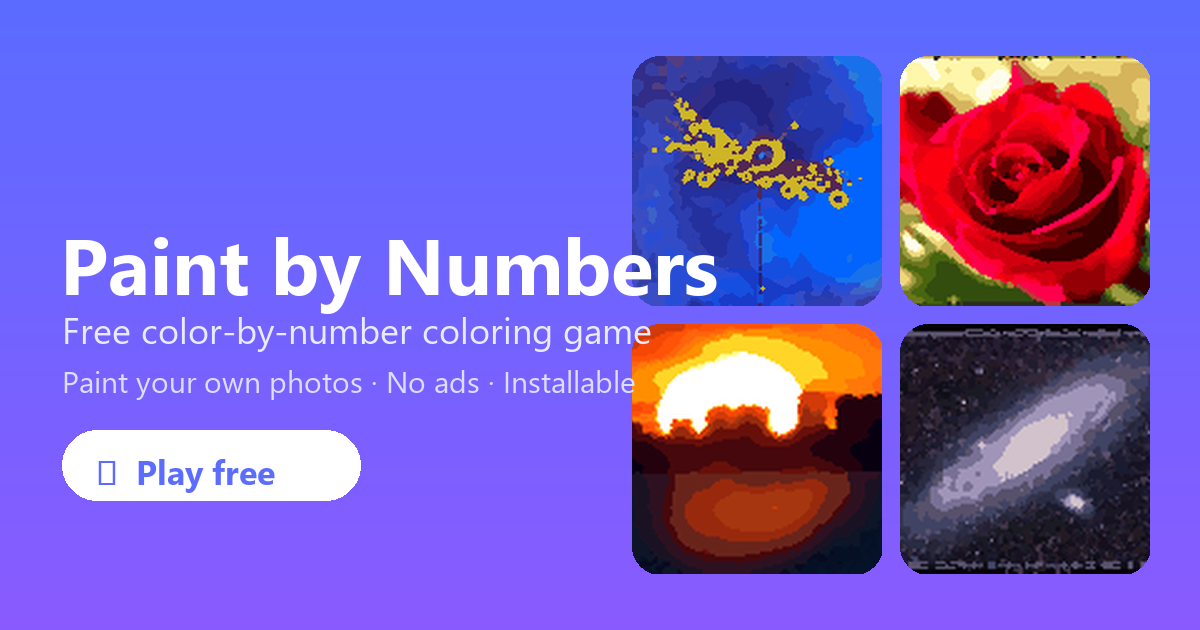
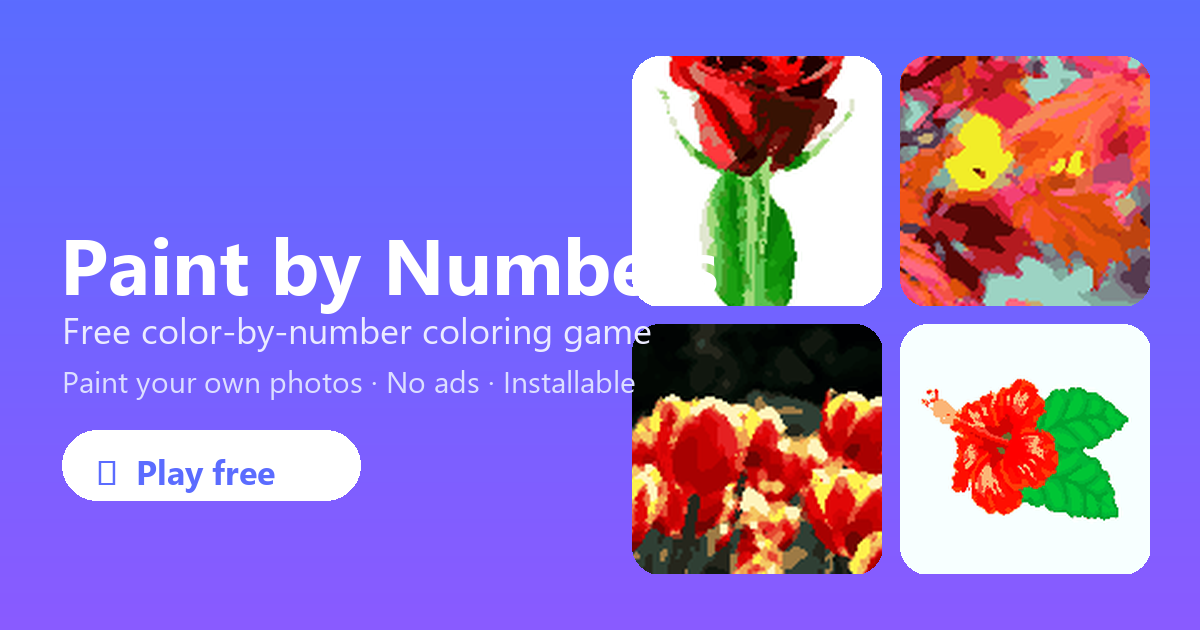
Finer cells + curated gallery
- Numbered cells finer (blockSize 4 -> 3) to match real paint-by-number density
- Rebuilt built-in gallery: scores CC0 candidates by colourfulness/exposure
  and picks the most vivid, clear image per subject (drops dark/muddy picks);
  22 curated subjects with stronger search terms
- Refreshed OG image, SW cache v5

diff --git a/js/convert.js b/js/convert.js
@@ -257,7 +257,7 @@ window.PBN = window.PBN || {};
     // Numbered units are BOUNDED TILES, not whole connected blobs — so a large
     // colour area is many cells to fill one-by-one (real paint-by-number), not
     // a single bucket-fill. Each (tile, colour) pair becomes one numbered cell.
-    const bs = opts.blockSize || 4;
+    const bs = opts.blockSize || 3;
     const bw = Math.ceil(w / bs);
     let maxC = 0; for (let i = 0; i < N; i++) if (col[i] > maxC) maxC = col[i];
     const stride = maxC + 1;

diff --git a/service-worker.js b/service-worker.js
@@ -1,6 +1,6 @@
 /* service-worker.js — offline support, network-first so updates always land.
  * Bump CACHE to force eviction of old assets. */
-const CACHE = 'pbn-v4';
+const CACHE = 'pbn-v5';
 const ASSETS = [
   './',
   './index.html',

diff --git a/tools/bake_puzzles.py b/tools/bake_puzzles.py
@@ -1,43 +1,50 @@
-"""Bake the built-in gallery: fetch CC0 photos, convert to paint-by-number
-puzzles, and emit js/puzzle-data.js (palette + RLE grid per puzzle).
+"""Bake the built-in gallery: fetch CC0 photos, pick the most vivid / clearest
+candidate per subject, convert to paint-by-number puzzles, and emit
+js/puzzle-data.js (palette + RLE grid per puzzle).
 
 Only the transformed low-res numbered grids are stored in the repo, never the
 source photographs.  Sources are CC0 via the Openverse API.
 """
-import json, os, sys, time, urllib.request, urllib.parse
-from collections import Counter
-from PIL import Image, ImageOps, ImageEnhance, ImageFilter
+import json, math, os, time, urllib.request, urllib.parse
+from io import BytesIO
+from PIL import Image, ImageOps, ImageEnhance, ImageFilter, ImageMath, ImageStat
 
 HERE = os.path.dirname(__file__)
 OUT = os.path.join(HERE, "..", "js", "puzzle-data.js")
 UA = "PaintByNumbers/1.0 (personal project)"
+RES = 150          # long-edge resolution of the puzzle grid
+TRIES = 7          # candidate images to download & score per subject
 
-# subject, display name, emoji, target max dimension, colour count
+# query, display name, emoji, colours
 CATALOG = [
-    ("sunflower",        "Sunflower",     "🌻", 72, 20),
-    ("red rose flower",  "Rose",          "🌹", 70, 20),
-    ("butterfly wings",  "Butterfly",     "🦋", 76, 22),
-    ("kitten cat",       "Kitten",        "🐱", 72, 20),
-    ("puppy dog",        "Puppy",         "🐶", 72, 20),
-    ("autumn forest",    "Autumn Woods",  "🍂", 78, 24),
-    ("beach sunset sea", "Sunset Beach",  "🌅", 80, 22),
-    ("mountain lake",    "Mountain Lake", "🏔️", 80, 24),
-    ("nebula galaxy",    "Galaxy",        "🌌", 76, 22),
-    ("hot air balloon",  "Hot Air Balloon","🎈", 72, 22),
-    ("lighthouse coast", "Lighthouse",    "🗼", 74, 22),
-    ("cherry blossom",   "Cherry Blossom","🌸", 76, 20),
-    ("koi fish pond",    "Koi Pond",      "🐟", 76, 22),
-    ("colorful parrot",  "Parrot",        "🦜", 72, 22),
-    ("red fox",          "Fox",           "🦊", 72, 20),
-    ("hummingbird flower","Hummingbird",  "🐦", 76, 22),
-    ("tropical fish reef","Coral Reef",   "🐠", 80, 24),
-    ("strawberry fruit", "Strawberry",    "🍓", 68, 18),
+    ("sunflower close up",        "Sunflower",      "🌻", 22),
+    ("single red rose flower",    "Rose",           "🌹", 22),
+    ("monarch butterfly wings",   "Butterfly",      "🦋", 22),
+    ("kitten face",               "Kitten",         "🐱", 22),
+    ("golden retriever puppy",    "Puppy",          "🐶", 22),
+    ("autumn maple tree red",     "Autumn",         "🍂", 24),
+    ("ocean sunset beach",        "Sunset",         "🌅", 22),
+    ("mountain lake reflection",  "Mountain Lake",  "🏔️", 24),
+    ("spiral galaxy stars",       "Galaxy",         "🌌", 22),
+    ("hot air balloons sky",      "Hot Air Balloons","🎈", 22),
+    ("lighthouse blue sky",       "Lighthouse",     "🗼", 22),
+    ("cherry blossom pink tree",  "Cherry Blossom", "🌸", 22),
+    ("koi fish pond orange",      "Koi",            "🐟", 22),
+    ("scarlet macaw parrot",      "Parrot",         "🦜", 24),
+    ("red fox animal",            "Fox",            "🦊", 22),
+    ("hummingbird flower",        "Hummingbird",    "🐦", 22),
+    ("clownfish sea anemone",     "Clownfish",      "🐠", 24),
+    ("fresh strawberries",        "Strawberry",     "🍓", 20),
+    ("peacock feathers",          "Peacock",        "🦚", 24),
+    ("tulip field colorful",      "Tulips",         "🌷", 22),
+    ("hibiscus flower",           "Hibiscus",       "🌺", 22),
+    ("toucan bird",               "Toucan",         "🐦", 22),
 ]
 
 
-def openverse(query, n=12):
+def openverse(query, n=18):
     url = "https://api.openverse.org/v1/images/?" + urllib.parse.urlencode({
-        "q": query, "license": "cc0", "size": "medium",
+        "q": query, "license": "cc0", "size": "large",
         "page_size": n, "mature": "false",
     })
     req = urllib.request.Request(url, headers={"User-Agent": UA})
@@ -48,102 +55,96 @@ def openverse(query, n=12):
 def fetch_image(url):
     req = urllib.request.Request(url, headers={"User-Agent": UA})
     with urllib.request.urlopen(req, timeout=30) as r:
-        from io import BytesIO
         return Image.open(BytesIO(r.read())).convert("RGB")
 
 
+def quality(img):
+    """Higher = more vivid & well-exposed. Rejects dark / muddy / grey shots."""
+    s = img.resize((72, 72))
+    r, g, b = s.split()
+    rg = ImageMath.eval("abs(a-b)", a=r, b=g).convert("L")
+    yb = ImageMath.eval("abs((a+b)/2-c)", a=r, b=g, c=b).convert("L")
+    srg, syb = ImageStat.Stat(rg), ImageStat.Stat(yb)
+    colorful = math.sqrt(srg.stddev[0] ** 2 + syb.stddev[0] ** 2) + \
+        0.3 * math.sqrt(srg.mean[0] ** 2 + syb.mean[0] ** 2)
+    bright = ImageStat.Stat(s.convert("L")).mean[0]
+    pen = 0.0
+    if bright < 60:  pen += (60 - bright) * 1.4      # too dark (e.g. eclipse)
+    if bright > 205: pen += (bright - 205) * 1.0      # blown out
+    return colorful - pen
+
+
 def crop_to(img, max_dim):
-    """Resize so the long side == max_dim, keep aspect, gently center-crop
-    extreme panoramas toward a friendlier 4:3-ish frame."""
     w, h = img.size
     ar = w / h
-    if ar > 1.6:        # very wide -> crop sides
+    if ar > 1.6:
         nw = int(h * 1.5); img = img.crop(((w - nw) // 2, 0, (w - nw) // 2 + nw, h))
-    elif ar < 0.62:     # very tall -> crop top/bottom
+    elif ar < 0.62:
         nh = int(w / 1.5); img = img.crop((0, (h - nh) // 2, w, (h - nh) // 2 + nh))
     w, h = img.size
     s = max_dim / max(w, h)
     return img.resize((max(8, round(w * s)), max(8, round(h * s))), Image.LANCZOS)
 
 
-def convert(img, max_dim, colors):
+def convert(img, colors):
     img = ImageOps.autocontrast(img, cutoff=1)
-    img = ImageEnhance.Color(img).enhance(1.18)          # a touch more vivid
+    img = ImageEnhance.Color(img).enhance(1.2)
     img = ImageEnhance.Contrast(img).enhance(1.05)
-    small = crop_to(img, max_dim)
+    small = crop_to(img, RES)
     w, h = small.size
     q = small.quantize(colors=colors, method=Image.MEDIANCUT, dither=Image.NONE)
-    q = q.filter(ImageFilter.ModeFilter(3))              # flatten speckle (region merge happens in-app)
-    pal = q.getpalette()
-    idxs = list(q.getdata())
-
-    # build grid
+    q = q.filter(ImageFilter.ModeFilter(3))
+    pal, idxs = q.getpalette(), list(q.getdata())
     grid = [idxs[y * w:(y + 1) * w] for y in range(h)]
-
-    # compact + order palette by luminance
     used = sorted(set(idxs))
     cols = [(pal[i * 3], pal[i * 3 + 1], pal[i * 3 + 2]) for i in used]
     order = sorted(range(len(used)), key=lambda k: 0.299 * cols[k][0] + 0.587 * cols[k][1] + 0.114 * cols[k][2])
     remap = {used[order[n]]: n for n in range(len(order))}
     new_pal = [cols[order[n]] for n in range(len(order))]
-    grid = [[remap[v] + 1 for v in row] for row in grid]   # 1-based
-
-    # RLE: flat [val,run,...]
-    rle = []
-    prev, run = None, 0
+    grid = [[remap[v] + 1 for v in row] for row in grid]
+    rle, prev, run = [], None, 0
     for row in grid:
         for v in row:
-            if v == prev:
-                run += 1
+            if v == prev: run += 1
             else:
-                if prev is not None:
-                    rle += [prev, run]
+                if prev is not None: rle += [prev, run]
                 prev, run = v, 1
-    if prev is not None:
-        rle += [prev, run]
-
-    hexpal = ["#%02x%02x%02x" % c for c in new_pal]
-    return w, h, hexpal, rle
+    if prev is not None: rle += [prev, run]
+    return w, h, ["#%02x%02x%02x" % c for c in new_pal], rle
 
 
 def main():
     puzzles = []
-    for subj, name, emoji, dim, colors in CATALOG:
-        ok = False
+    for query, name, emoji, colors in CATALOG:
         try:
-            results = openverse(subj)
+            results = openverse(query)
         except Exception as e:
-            print("  search failed", subj, e); results = []
+            print("  search failed", name, e); results = []
+        best, best_score, tried = None, -1e9, 0
         for r in results:
+            if tried >= TRIES: break
             u = r.get("url")
-            if not u:
-                continue
+            if not u: continue
             try:
                 img = fetch_image(u)
-                if min(img.size) < 200:
-                    continue
-                # high resolution so the finished picture reads like the photo,
-                # not a coarse pixel grid (regions are detected in-app)
-                w, h, pal, rle = convert(img, 150, colors)
-                puzzles.append({
-                    "id": subj.split()[0] + "-" + str(len(puzzles)),
-                    "name": name, "emoji": emoji,
-                    "w": w, "h": h, "palette": pal, "rle": rle,
-                })
-                print("  ok  %-16s %dx%d  %d colors  %d cells" % (name, w, h, len(pal), w * h))
-                ok = True
-                break
-            except Exception as e:
+                if min(img.size) < 240: continue
+                tried += 1
+                sc = quality(img)
+                if sc > best_score: best_score, best = sc, img
+            except Exception:
                 continue
-        if not ok:
-            print("  SKIP", name)
-        time.sleep(0.3)
+        if best is None:
+            print("  SKIP", name); continue
+        w, h, pal, rle = convert(best, colors)
+        puzzles.append({"id": name.lower().replace(" ", "-"), "name": name, "emoji": emoji,
+                        "w": w, "h": h, "palette": pal, "rle": rle})
+        print("  ok  %-16s %dx%d  %2d colors  score %.0f" % (name, w, h, len(pal), best_score))
+        time.sleep(0.2)
 
     body = "window.PUZZLE_DATA = " + json.dumps(puzzles, separators=(",", ":")) + ";\n"
     with open(OUT, "w", encoding="utf-8") as f:
         f.write(body)
-    kb = len(body) / 1024
-    print("wrote %s  (%d puzzles, %.1f KB)" % (OUT, len(puzzles), kb))
+    print("wrote %s  (%d puzzles, %.1f KB)" % (OUT, len(puzzles), len(body) / 1024))
 
 
 if __name__ == "__main__":

diff --git a/tools/make_og.py b/tools/make_og.py
@@ -52,7 +52,7 @@ for y in range(H):
 # showcase a few finished puzzles on the right
 try:
     puz = load_puzzles()
-    picks = [p for p in puz if p["name"] in ("Sunset Beach", "Rose", "Galaxy", "Sunflower")]
+    picks = [p for p in puz if p["name"] in ("Rose", "Tulips", "Autumn", "Hibiscus")]
     picks = (picks + puz)[:4]
     box = 250; gap = 18; x0 = W - (box * 2 + gap) - 50; y0 = (H - (box * 2 + gap)) // 2
     for n, p in enumerate(picks):